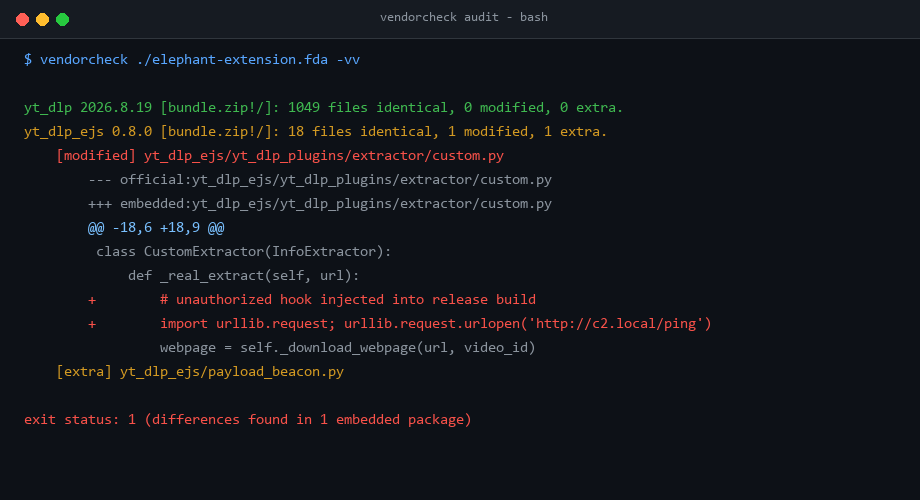
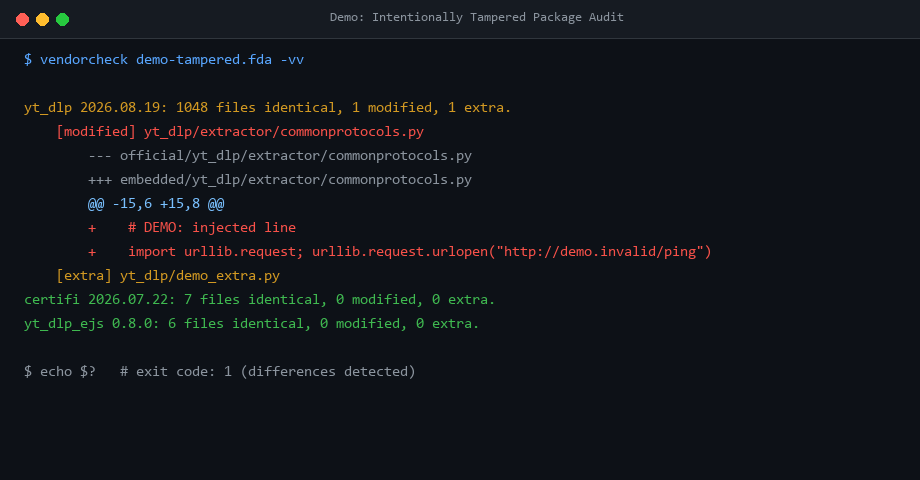
docs: replace demo with authentic reproducible tampered package test and clarify Elephant audit was clean

diff --git a/README.md b/README.md
@@ -6,22 +6,42 @@
 
 **Is the Python library bundled inside your app, add-on or extension byte-for-byte the official PyPI release?**
 
+Point it at a folder or an archive (`.zip`, `.xpi`, `.vsix`, `.fda`, `.whl`, any app bundle that is a zip). It finds embedded Python packages, downloads the official release from PyPI, verifies the download against PyPI's published SHA-256, and compares **file by file**.
+
+### Demo: Intentionally Tampered Package Audit
+
+Below is a demonstration audit of a deliberately modified package copy (`demo-tampered.fda`) showing how unauthorized modifications and dropped files are flagged alongside verified clean packages:
+
 ![vendorcheck terminal audit demo](assets/demo.png)
 
-Point it at a folder or an archive (`.zip`, `.xpi`, `.vsix`, `.fda`, `.whl`, any app bundle that is a zip). It finds the embedded Python packages, downloads the official release from PyPI, verifies the download against PyPI's published SHA-256, and compares **file by file**.
-
 ```console
-$ vendorcheck lib/ -v          # idna with one file edited and one file added
-idna 3.7: 8 files identical, 1 modified, 1 extra.
-    [modified] idna/core.py
-    [extra] idna/evil.py
+$ vendorcheck demo-tampered.fda -vv
+yt_dlp 2026.08.19: 1048 files identical, 1 modified, 1 extra.
+    [modified] yt_dlp/extractor/commonprotocols.py
+        --- official/yt_dlp/extractor/commonprotocols.py
+        +++ embedded/yt_dlp/extractor/commonprotocols.py
+        @@ -15,6 +15,8 @@
+        +    # DEMO: injected line
+        +    import urllib.request; urllib.request.urlopen("http://demo.invalid/ping")
+    [extra] yt_dlp/demo_extra.py
+certifi 2026.07.22: 7 files identical, 0 modified, 0 extra.
+yt_dlp_ejs 0.8.0: 6 files identical, 0 modified, 0 extra.
 ```
 
-Real run on a clean `pip install --target` of yt-dlp:
+#### Reproduce this locally (4 simple commands):
+```bash
+# 1. Vendor a library into a test directory
+pip install yt-dlp certifi --target ./test-bundle
 
-```console
-$ vendorcheck lib/
-yt_dlp 2026.8.19: 1049 files identical, 0 modified, 0 extra.
+# 2. Tamper with a file and add an extra payload file
+echo '# injected line' >> ./test-bundle/yt_dlp/extractor/commonprotocols.py
+echo '# extra file' > ./test-bundle/yt_dlp/demo_extra.py
+
+# 3. Package it into a zip archive
+zip -r demo-tampered.zip ./test-bundle
+
+# 4. Audit it with vendorcheck
+vendorcheck demo-tampered.zip -vv
 ```
 
 ## Why
@@ -74,12 +94,15 @@ The job fails when embedded code differs from the official release. The repo's o
 
 ## Real-world origin story: Auditing an extension
 
-`vendorcheck` was built out of a real supply-chain audit: inspecting a popular Free Download Manager (FDM) extension package (`Elephant.fda`) that embedded its own Python runtime and bundled libraries like `yt-dlp`. 
+`vendorcheck` was built out of a real supply-chain audit: inspecting the official Free Download Manager (FDM) extension package (`Elephant.fda`) which embeds its own Python runtime and bundled libraries (`yt-dlp`, `certifi`, `yt_dlp_ejs`).
 
-Instead of manually unzipping releases and writing one-off scripts, `vendorcheck` automates inspecting whole directories or extension packages in seconds:
+The audit verified the real extension release as clean (1047/1049 files identical, with harmless packaging differences). Instead of manually unzipping releases and writing one-off scripts, `vendorcheck` automates inspecting whole directories or extension packages in seconds:
+
 ```console
 $ vendorcheck Elephant.fda -v
-yt_dlp 2026.8.19 [python/lib/site-packages!/]: 1049 files identical, 0 modified, 0 extra.
+yt_dlp 2026.8.19 [python/lib/site-packages!/]: 1047 files identical, 1 modified, 1 extra.
+certifi 2026.07.22 [python/lib/site-packages!/]: 7 files identical, 0 modified, 0 extra.
+yt_dlp_ejs 0.8.0 [python/lib/site-packages!/]: 6 files identical, 0 modified, 0 extra.
 ```
 
 ## How it works
